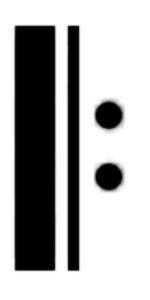
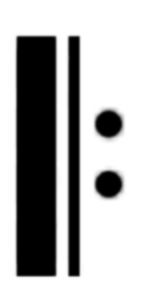
random change

diff --git a/stylesheets/newproject.css b/stylesheets/newproject.css
@@ -1,2 +1,2 @@
-body{background-color:#646464}#whitePage{background-color:white;width:840px;height:1188px;position:absolute;left:50%;-webkit-transform:translate(-50%, 0%);transform:translate(-50%, 0%);top:150px}.row{position:relative;width:90%;height:50px;left:50%;-webkit-transform:translate(-50%, 0%);transform:translate(-50%, 0%)}.line{padding:2px 0px}.space,.spaceLine{height:4px}.key{height:70px}.blackline{height:1px;width:100%;background-color:black}#Nadpis{font-size:30px;position:absolute;min-width:200px;text-align:center;top:50px;left:50%;-webkit-transform:translate(-50%, 0%);transform:translate(-50%, 0%)}#MusicBY{position:absolute;top:120px;right:150px;min-width:100px}#Arranged{position:absolute;top:150px;right:150px;min-width:100px}#tools{z-index:5;width:300px;height:200px;background-color:#c21616;position:fixed;top:100px;left:50px;display:-ms-grid;display:grid;-ms-grid-columns:(40px)[6];grid-template-columns:repeat(6, 40px);-ms-grid-rows:(40px)[5];grid-template-rows:repeat(5, 40px);gap:10px;padding:10px}.tool{cursor:pointer;border-radius:10px;background-color:white;display:-webkit-box;display:-ms-flexbox;display:flex;-webkit-box-pack:center;-ms-flex-pack:center;justify-content:center;-webkit-box-align:center;-ms-flex-align:center;align-items:center}.tool img{height:35px}.nota{position:absolute;z-index:2;width:20px;height:20px;display:-webkit-box;display:-ms-flexbox;display:flex;-webkit-box-align:center;-ms-flex-align:center;align-items:center;-webkit-box-pack:center;-ms-flex-pack:center;justify-content:center}.t{z-index:-1}.line,.space{position:relative}.blackline{z-index:-2;position:relative}.tempo{display:-webkit-box;display:-ms-flexbox;display:flex;-webkit-box-align:center;-ms-flex-align:center;align-items:center;position:absolute;top:-10px;left:40px}#mainBar{top:0;left:0;position:fixed;width:100%;height:100px;z-index:5;background-color:#c8c8c8;display:-webkit-box;display:-ms-flexbox;display:flex;-webkit-box-align:center;-ms-flex-align:center;align-items:center;padding:5px 20px;font-family:Arial, Helvetica, sans-serif}#mainBar #stupniceBar{text-align:center;width:450px;background-color:var(#c8c8c8);padding:10px;display:-webkit-box;display:-ms-flexbox;display:flex;-webkit-box-align:center;-ms-flex-align:center;align-items:center;-webkit-box-orient:vertical;-webkit-box-direction:normal;-ms-flex-direction:column;flex-direction:column;font-size:20px}.cell{height:75px;width:60px;text-align:center;-webkit-box-align:center;-ms-flex-align:center;align-items:center;font-size:14px;padding:5px;border-left:1px solid #9b9b9b}.cell img{cursor:pointer;padding:5px;height:50px}.KEYS{display:-webkit-box;display:-ms-flexbox;display:flex;-ms-flex-pack:distribute;justify-content:space-around;width:150px;-webkit-box-align:center;-ms-flex-align:center;align-items:center}.KEYS img:hover{background-color:#b0b0b0}.takt{height:42px;cursor:pointer}.takt:hover{opacity:0.6}#Tacts{position:absolute;top:300px;width:210px;height:110px;background-color:#c8c8c8;padding:5px;display:none;z-index:5;-ms-grid-columns:(1fr)[6];grid-template-columns:repeat(6, 1fr);-ms-grid-rows:(1fr)[2];grid-template-rows:repeat(2, 1fr)}#Tacts img{height:50px;padding:2px;border-radius:5px;cursor:pointer}#Tacts img:hover{background-color:#b0b0b0}.konecniTakt{height:37px;width:1px;position:absolute;background-color:black;top:38px;right:0px}.cImg{cursor:pointer}.posuvka{height:30px;position:absolute;left:-15px}.znamenko{height:30px;position:absolute;left:-1px}.stupniceL{margin-top:50px;margin-bottom:30px;width:400px;height:3px;background-color:black;position:relative}.stupnice{height:10px;width:2px;background-color:black;position:absolute;top:-5px;display:-webkit-box;display:-ms-flexbox;display:flex;-webkit-box-pack:center;-ms-flex-pack:center;justify-content:center}#keysBar{display:none;z-index:6;width:180px;height:80px;background-color:var(#c8c8c8);position:fixed;top:120px;left:50px;padding:10px;-webkit-box-align:center;-ms-flex-align:center;align-items:center;-ms-flex-pack:distribute;justify-content:space-around;font-size:20px}#keysBar img{height:60px;border-radius:10px}#keysBar img:hover{background-color:var(#b0b0b0)}.textstupnice{font-size:14px;position:relative;top:10px}#UkazatelDS{cursor:pointer;height:25px;position:absolute;left:200px;-webkit-transform:translate(-50%, 0%);transform:translate(-50%, 0%)}.preznamenani{height:70px}.preznamenani img{height:70px}.naLince{position:absolute;top:22px;left:0px;width:-webkit-fit-content;width:-moz-fit-content;width:fit-content;display:-webkit-box;display:-ms-flexbox;display:flex;-webkit-box-align:center;-ms-flex-align:center;align-items:center}.options{position:relative;width:160px;height:160px;display:none;-webkit-box-pack:center;-ms-flex-pack:center;justify-content:center;-webkit-box-align:center;-ms-flex-align:center;align-items:center}.options svg{left:-80px;-webkit-transform-origin:80px 80px;transform-origin:80px 80px;position:absolute;fill:transparent}.options svg path{-webkit-transition:all 100ms;transition:all 100ms;-webkit-transform-origin:80px 80px;transform-origin:80px 80px}.options .sections{z-index:2;position:absolute}.options .sections img{height:40px;-webkit-user-select:none;-moz-user-select:none;-ms-user-select:none;user-select:none;-webkit-user-drag:none}.options .sections .hidden{display:none;position:relative}.options .sections .hidden img{cursor:pointer;position:absolute;height:27px;-webkit-user-select:none;-moz-user-select:none;-ms-user-select:none;user-select:none;-webkit-user-drag:none}#DruhyKolmichLinek{display:none;height:120px;width:138px;position:absolute;z-index:1}#DruhyKolmichLinek div{display:-webkit-box;display:-ms-flexbox;display:flex;-webkit-box-align:center;-ms-flex-align:center;align-items:center;position:absolute;bottom:0px;-ms-flex-pack:distribute;justify-content:space-around;width:-webkit-fit-content;width:-moz-fit-content;width:fit-content;height:50px;padding:5px;background-color:#c8c8c8}#DruhyKolmichLinek img{border-radius:5px;height:50px}#DruhyKolmichLinek img:hover{background-color:#b0b0b0}
+body{background-color:#646464}#whitePage{background-color:white;width:840px;height:1188px;position:absolute;left:50%;-webkit-transform:translate(-50%, 0%);transform:translate(-50%, 0%);top:150px}.row{position:relative;width:90%;height:50px;left:50%;-webkit-transform:translate(-50%, 0%);transform:translate(-50%, 0%)}.line{padding:2px 0px}.space,.spaceLine{height:4px}.key{height:70px}.blackline{height:1px;width:100%;background-color:black}#Nadpis{font-size:30px;position:absolute;min-width:200px;text-align:center;top:50px;left:50%;-webkit-transform:translate(-50%, 0%);transform:translate(-50%, 0%)}#MusicBY{position:absolute;top:120px;right:150px;min-width:100px}#Arranged{position:absolute;top:150px;right:150px;min-width:100px}#tools{z-index:5;width:300px;height:200px;background-color:#c21616;position:fixed;top:100px;left:50px;display:-ms-grid;display:grid;-ms-grid-columns:(40px)[6];grid-template-columns:repeat(6, 40px);-ms-grid-rows:(40px)[5];grid-template-rows:repeat(5, 40px);gap:10px;padding:10px}.tool{cursor:pointer;border-radius:10px;background-color:white;display:-webkit-box;display:-ms-flexbox;display:flex;-webkit-box-pack:center;-ms-flex-pack:center;justify-content:center;-webkit-box-align:center;-ms-flex-align:center;align-items:center}.tool img{height:35px}.nota{position:absolute;z-index:2;width:20px;height:20px;display:-webkit-box;display:-ms-flexbox;display:flex;-webkit-box-align:center;-ms-flex-align:center;align-items:center;-webkit-box-pack:center;-ms-flex-pack:center;justify-content:center}.t{z-index:-1}.line,.space{position:relative}.blackline{z-index:-2;position:relative}.tempo{display:-webkit-box;display:-ms-flexbox;display:flex;-webkit-box-align:center;-ms-flex-align:center;align-items:center;position:absolute;top:-10px;left:40px}#mainBar{top:0;left:0;position:fixed;width:100%;height:100px;z-index:5;background-color:#c8c8c8;display:-webkit-box;display:-ms-flexbox;display:flex;-webkit-box-align:center;-ms-flex-align:center;align-items:center;padding:5px 20px;font-family:Arial, Helvetica, sans-serif}#mainBar #stupniceBar{text-align:center;width:450px;background-color:var(#c8c8c8);padding:10px;display:-webkit-box;display:-ms-flexbox;display:flex;-webkit-box-align:center;-ms-flex-align:center;align-items:center;-webkit-box-orient:vertical;-webkit-box-direction:normal;-ms-flex-direction:column;flex-direction:column;font-size:20px}.cell{height:75px;width:60px;text-align:center;-webkit-box-align:center;-ms-flex-align:center;align-items:center;font-size:14px;padding:5px;border-left:1px solid #9b9b9b}.cell img{cursor:pointer;padding:5px;height:50px}.KEYS{display:-webkit-box;display:-ms-flexbox;display:flex;-ms-flex-pack:distribute;justify-content:space-around;width:150px;-webkit-box-align:center;-ms-flex-align:center;align-items:center}.KEYS img:hover{background-color:#b0b0b0}.takt{height:42px;cursor:pointer}.takt:hover{opacity:0.6}#Tacts{position:absolute;top:300px;width:210px;height:110px;background-color:#c8c8c8;padding:5px;display:none;z-index:5;-ms-grid-columns:(1fr)[6];grid-template-columns:repeat(6, 1fr);-ms-grid-rows:(1fr)[2];grid-template-rows:repeat(2, 1fr)}#Tacts img{height:50px;padding:2px;border-radius:5px;cursor:pointer}#Tacts img:hover{background-color:#b0b0b0}.cImg{cursor:pointer}.konecniTakt{position:absolute;right:-6px;top:33px;height:46px}.posuvka{height:30px;position:absolute;left:-15px}.znamenko{height:30px;position:absolute;left:-1px}.stupniceL{margin-top:50px;margin-bottom:30px;width:400px;height:3px;background-color:black;position:relative}.stupnice{height:10px;width:2px;background-color:black;position:absolute;top:-5px;display:-webkit-box;display:-ms-flexbox;display:flex;-webkit-box-pack:center;-ms-flex-pack:center;justify-content:center}#keysBar{display:none;z-index:6;width:180px;height:80px;background-color:var(#c8c8c8);position:fixed;top:120px;left:50px;padding:10px;-webkit-box-align:center;-ms-flex-align:center;align-items:center;-ms-flex-pack:distribute;justify-content:space-around;font-size:20px}#keysBar img{height:60px;border-radius:10px}#keysBar img:hover{background-color:var(#b0b0b0)}.textstupnice{font-size:14px;position:relative;top:10px}#UkazatelDS{cursor:pointer;height:25px;position:absolute;left:200px;-webkit-transform:translate(-50%, 0%);transform:translate(-50%, 0%)}.preznamenani{height:70px}.preznamenani img{height:70px}.naLince{position:absolute;top:22px;left:0px;width:-webkit-fit-content;width:-moz-fit-content;width:fit-content;display:-webkit-box;display:-ms-flexbox;display:flex;-webkit-box-align:center;-ms-flex-align:center;align-items:center}.options{position:relative;width:160px;height:160px;display:none;-webkit-box-pack:center;-ms-flex-pack:center;justify-content:center;-webkit-box-align:center;-ms-flex-align:center;align-items:center}.options svg{left:-80px;-webkit-transform-origin:80px 80px;transform-origin:80px 80px;position:absolute;fill:transparent}.options svg path{-webkit-transition:all 100ms;transition:all 100ms;-webkit-transform-origin:80px 80px;transform-origin:80px 80px}.options .sections{z-index:2;position:absolute}.options .sections img{height:40px;-webkit-user-select:none;-moz-user-select:none;-ms-user-select:none;user-select:none;-webkit-user-drag:none}.options .sections .hidden{display:none;position:relative}.options .sections .hidden img{cursor:pointer;position:absolute;height:27px;-webkit-user-select:none;-moz-user-select:none;-ms-user-select:none;user-select:none;-webkit-user-drag:none}#DruhyKolmichLinek{display:none;height:120px;width:138px;position:absolute;z-index:1}#DruhyKolmichLinek div{display:-webkit-box;display:-ms-flexbox;display:flex;-webkit-box-align:center;-ms-flex-align:center;align-items:center;position:absolute;bottom:0px;-ms-flex-pack:distribute;justify-content:space-around;width:-webkit-fit-content;width:-moz-fit-content;width:fit-content;height:50px;padding:5px;background-color:#c8c8c8}#DruhyKolmichLinek img{border-radius:5px;height:50px}#DruhyKolmichLinek img:hover{background-color:#b0b0b0}
 /*# sourceMappingURL=newproject.css.map */

diff --git a/newproject.html b/newproject.html
@@ -170,7 +170,8 @@
                 <img class="takt" src="images/TaktC.png">
             </div>
             <div class="tempo"><img style="height:20px" src="images/ctvrtovaNota.png"> = <p contenteditable="true">60</p></div>
-            <div class="konecniTakt"></div>
+            <div ></div>
+            <img onmouseenter="showThirdOptions(this,'last')" src="images/taktovaCara.png" class="konecniTakt n">
         </div>
         <div class="row" style="margin-top:75px;">
             <div class="space" TonVzhuruNohama="t" x="4" y="7"><div class="c"></div></div>
@@ -713,12 +714,19 @@
         }
     }
     const thirdOPT=document.getElementById("DruhyKolmichLinek");
-    function showThirdOptions(){
+    function showThirdOptions(m){
+        console.log(typeof m);
+        if(m){
+            e=m;
+        }else{
+            e=this;
+        }
+        
         if(selectedTool==50){
-            selectedTakt=this;
+            selectedTakt=e;
             thirdOPT.style.display="block";
-            thirdOPT.style.top=+this.getBoundingClientRect().top-20+"px";
-            thirdOPT.style.left=+this.getBoundingClientRect().left-40+"px";
+            thirdOPT.style.top=+e.getBoundingClientRect().top-20+"px";
+            thirdOPT.style.left=+e.getBoundingClientRect().left-40+"px";
         }
     }
     function optThreeHide(){

diff --git a/SCSS/newproject.scss b/SCSS/newproject.scss
@@ -184,20 +184,17 @@ body{
 #Tacts img:hover{
     background-color: $hover;
 }
-.konecniTakt{
-    height:37px;
-    width:1px;
-    position: absolute;
-    background-color: black;
-    top:38px;
-    right:0px;
-}
 
 .cImg{
     cursor: pointer;
 
 }
-
+.konecniTakt{
+    position:absolute;
+    right:-6px;
+    top:33px;
+    height:46px;
+}
 .posuvka{
     height:30px;
     position: absolute;
